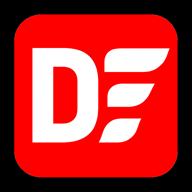
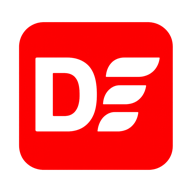
تغيير ايقونة البرنامج

diff --git a/dev-dist/sw.js b/dev-dist/sw.js
@@ -79,7 +79,7 @@ define(['./workbox-f8c404e3'], (function (workbox) { 'use strict';
    */
   workbox.precacheAndRoute([{
     "url": "index.html",
-    "revision": "0.rs0v973ufho"
+    "revision": "0.0mng1gi2kgo"
   }], {});
   workbox.cleanupOutdatedCaches();
   workbox.registerRoute(new workbox.NavigationRoute(workbox.createHandlerBoundToURL("index.html"), {
